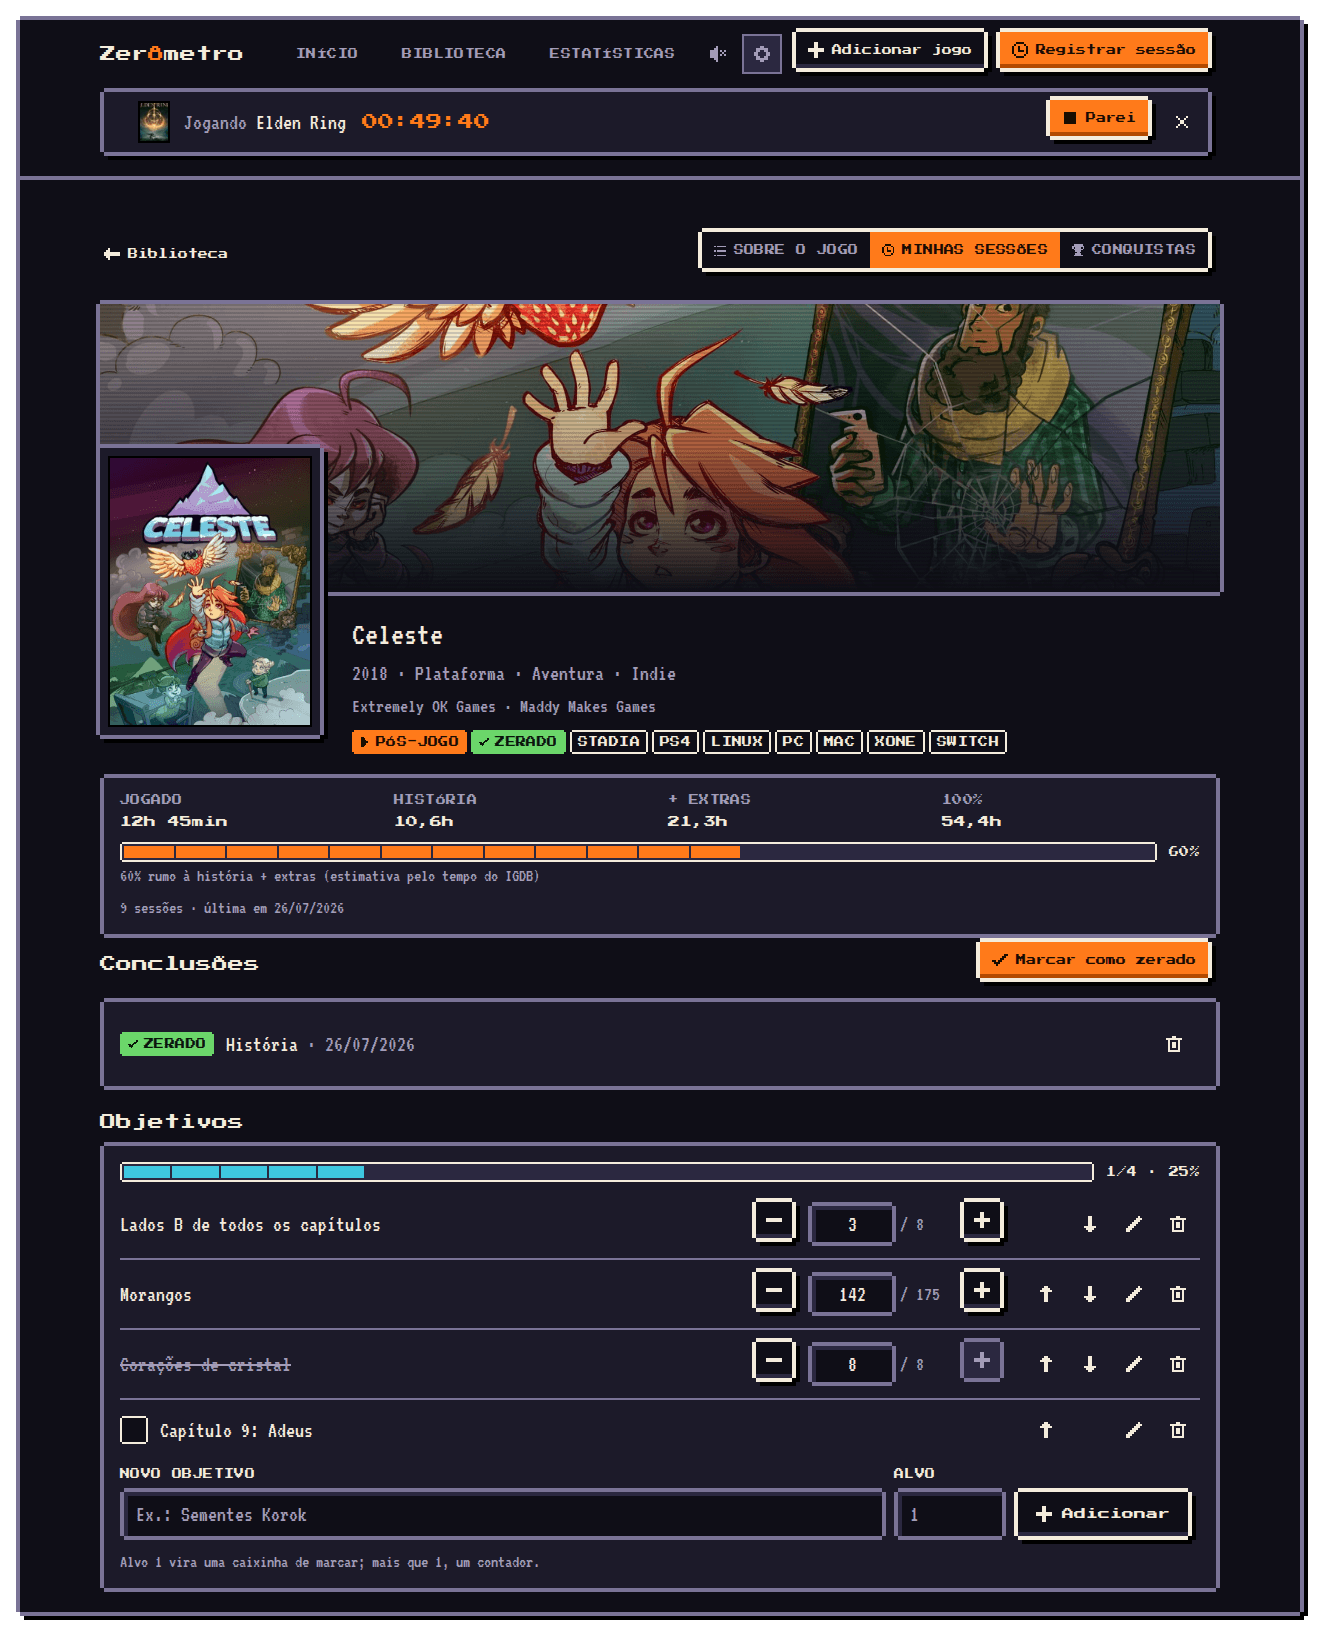
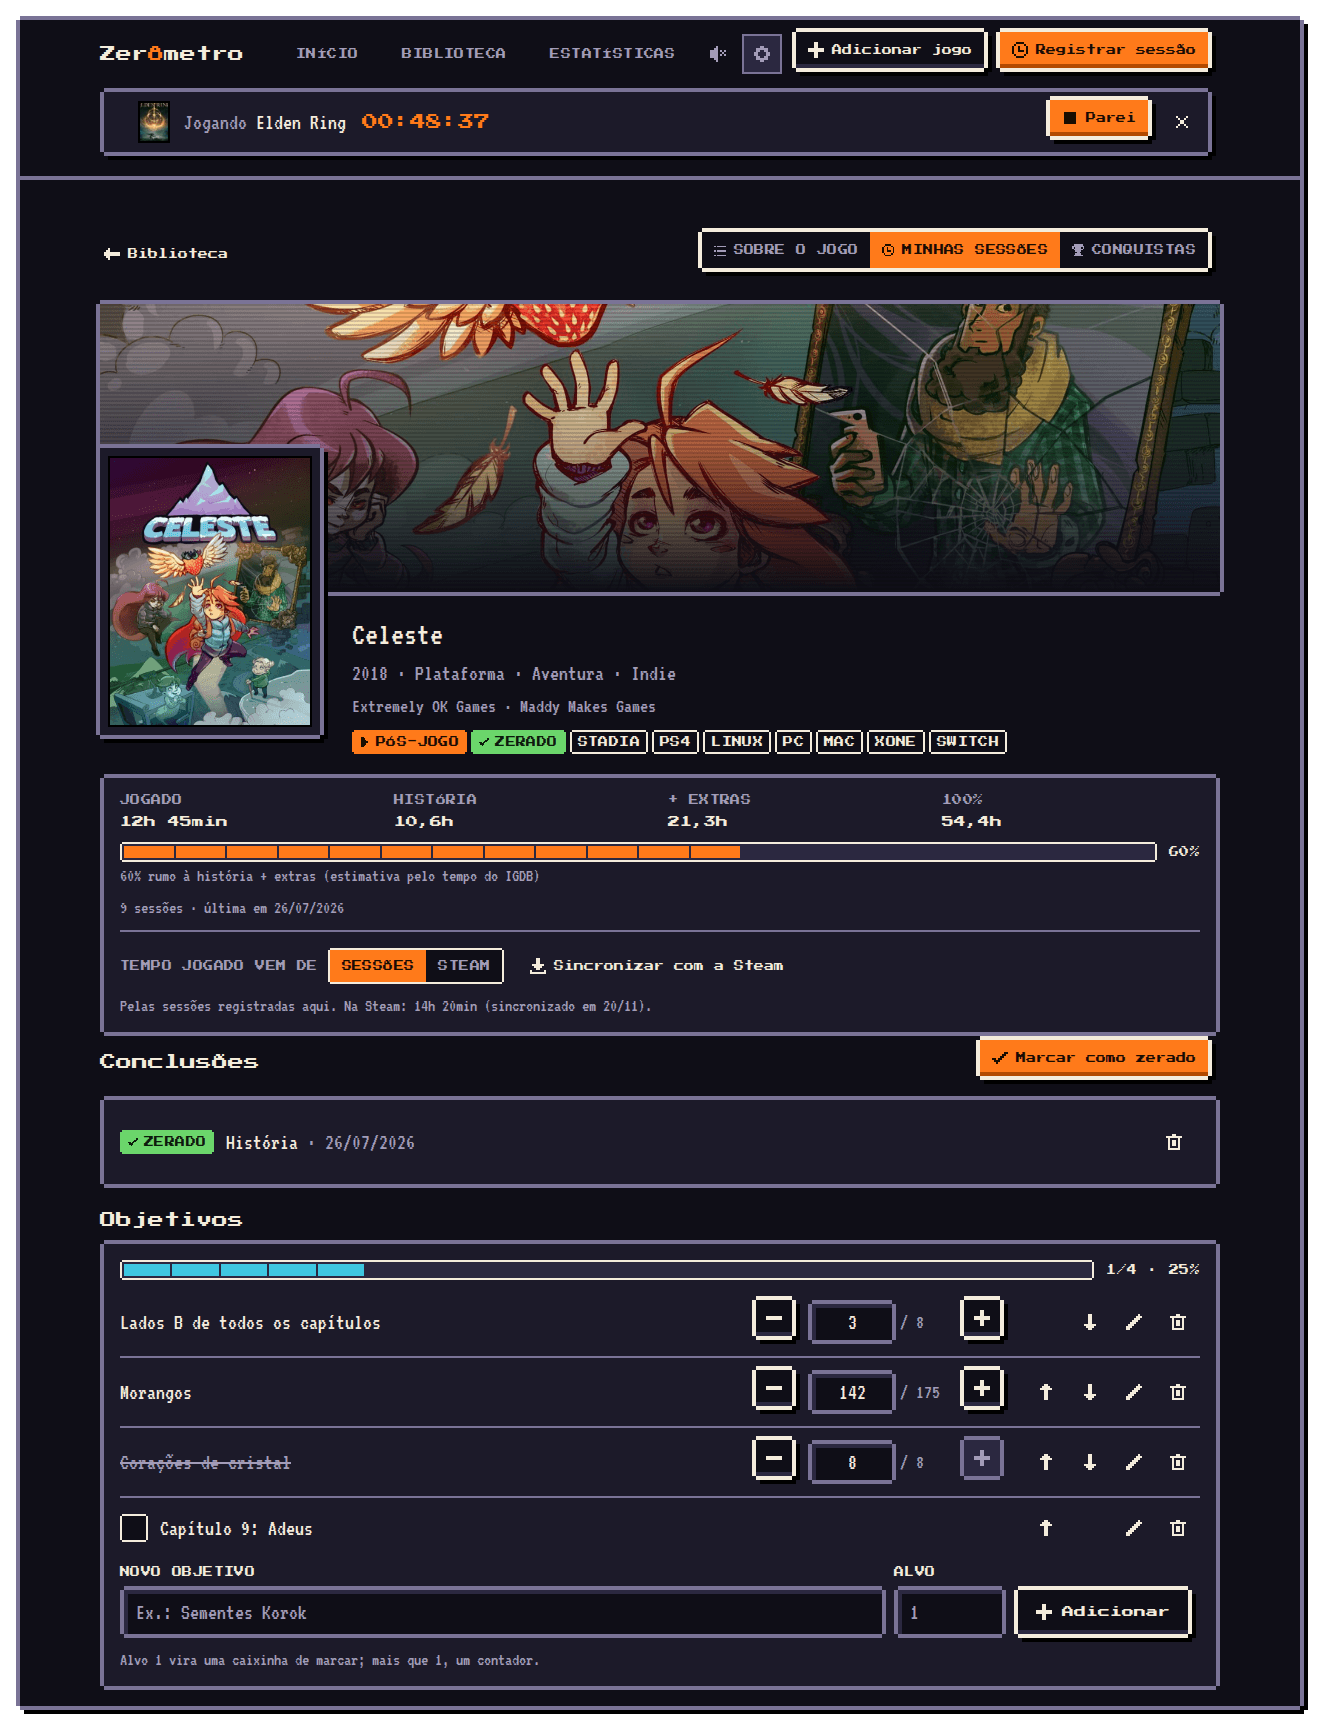
docs(readme): prints de Ajustes, Minhas sessões e Conquistas com a Steam
Ajustes com o cartão da Steam (conta conectada e a última sincronização automática), Minhas
sessões com "Tempo jogado vem de: Sessões | Steam" e o botão de sincronizar, e Conquistas com
"Sincronizar com a Steam". Mesmo demo, cortes e moldura dos prints anteriores; o perfil da
Steam nos prints é fictício (zerometro-demo, com o ícone do app).

Changed region(s): [[0.0309, 0.0, 0.988, 0.9951]]

diff --git a/README.md b/README.md
@@ -45,14 +45,14 @@ Tracker pessoal de jogos: backlog, tempo jogado por dia, ofensiva e estimativa d
       <br><sub><b>Biblioteca</b> · cartuchos por status, com o progresso estimado como barra de XP</sub>
     </td>
     <td width="50%" valign="top">
-      <img src="docs/readme/jogo.png" alt="Aba Minhas sessões do Celeste em pós-jogo: selos Pós-jogo e Zerado, tempo jogado contra os tempos do IGDB, barra rumo à história + extras, a conclusão registrada e os objetivos (contadores de lados B e morangos, caixinha do capítulo 9)">
-      <br><sub><b>Minhas sessões</b> · outra aba da página do jogo: tempo jogado contra os tempos do IGDB, conclusões (aqui em pós-jogo, rumo aos extras) e objetivos</sub>
+      <img src="docs/readme/jogo.png" alt="Aba Minhas sessões do Celeste em pós-jogo: selos Pós-jogo e Zerado, tempo jogado contra os tempos do IGDB, barra rumo à história + extras, a escolha de onde vem o tempo jogado (Sessões ou Steam, com o tempo na Steam e o botão Sincronizar com a Steam), a conclusão registrada e os objetivos (contadores de lados B e morangos, caixinha do capítulo 9)">
+      <br><sub><b>Minhas sessões</b> · outra aba da página do jogo: tempo jogado contra os tempos do IGDB (pelas sessões ou pela Steam, você escolhe), conclusões (aqui em pós-jogo, rumo aos extras) e objetivos</sub>
     </td>
   </tr>
   <tr>
     <td width="50%" valign="top">
-      <img src="docs/readme/conquistas.png" alt="Aba Conquistas do Celeste: lista da Steam ligada, 12 de 32 desbloqueadas, filtros, busca e ordem; conquistas desbloqueadas com ícone, raridade e data, secretas trancadas borradas com Mostrar spoiler">
-      <br><sub><b>Conquistas</b> · a lista da Steam ou do RetroAchievements, com raridade; você marca o que já fez, e as secretas ficam borradas até pedir o spoiler</sub>
+      <img src="docs/readme/conquistas.png" alt="Aba Conquistas do Celeste: lista da Steam ligada, botão Sincronizar com a Steam, 12 de 32 desbloqueadas, filtros, busca e ordem; conquistas desbloqueadas com ícone, raridade e data, secretas trancadas borradas com Mostrar spoiler">
+      <br><sub><b>Conquistas</b> · a lista da Steam ou do RetroAchievements, com raridade; você marca o que já fez (ou sincroniza com a sua Steam), e as secretas ficam borradas até pedir o spoiler</sub>
     </td>
     <td width="50%" valign="top">
       <img src="docs/readme/registrar-sessao.png" alt="Modal de registrar sessão com jogo, duração, dia e nota">
@@ -71,8 +71,8 @@ Tracker pessoal de jogos: backlog, tempo jogado por dia, ofensiva e estimativa d
       <img src="docs/readme/entrar.png" alt="Tela de login com o token de acesso">
       <br><sub><b>Login</b> · token de acesso da instância, vale 30 dias por aparelho</sub>
       <br><br>
-      <img src="docs/readme/ajustes.png" alt="Ajustes: mínimo diário da ofensiva, aviso de sessão longa e efeitos sonoros" width="60%">
-      <br><sub><b>Ajustes</b> · mínimo da ofensiva, aviso de sessão longa e sons 8 bits</sub>
+      <img src="docs/readme/ajustes.png" alt="Ajustes: mínimo diário da ofensiva, aviso de sessão longa, efeitos sonoros e a conta Steam conectada (Sincronizar tudo, Desconectar e a última sincronização automática)" width="60%">
+      <br><sub><b>Ajustes</b> · mínimo da ofensiva, aviso de sessão longa, sons 8 bits e a sua Steam, que sincroniza sozinha ao abrir o app</sub>
     </td>
   </tr>
 </table>
